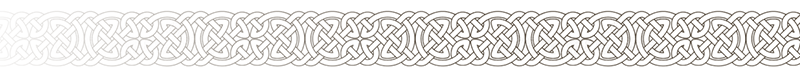
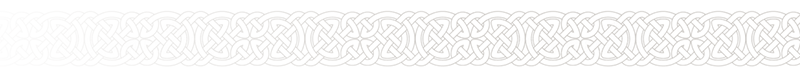
Fix header bg opacity

Changed region(s): [[0.0938, 0.1316, 1.0, 0.8947]]

diff --git a/styles.css b/styles.css
@@ -28,18 +28,17 @@ body {
     background-position: center; 
     background-repeat: no-repeat; 
     background-size: cover; 
-    opacity:0.6;
 }
 
 #header svg {
     width:30px;
     height:30px;
     padding:5px;
-    fill:aliceblue;
+    fill:rgb(241, 241, 241);
 }
 
 #header p {
     padding:5px;
-    color:rgb(238, 238, 238);
+    color:rgb(247, 247, 247);
     font-size: 1.7rem;
 }
